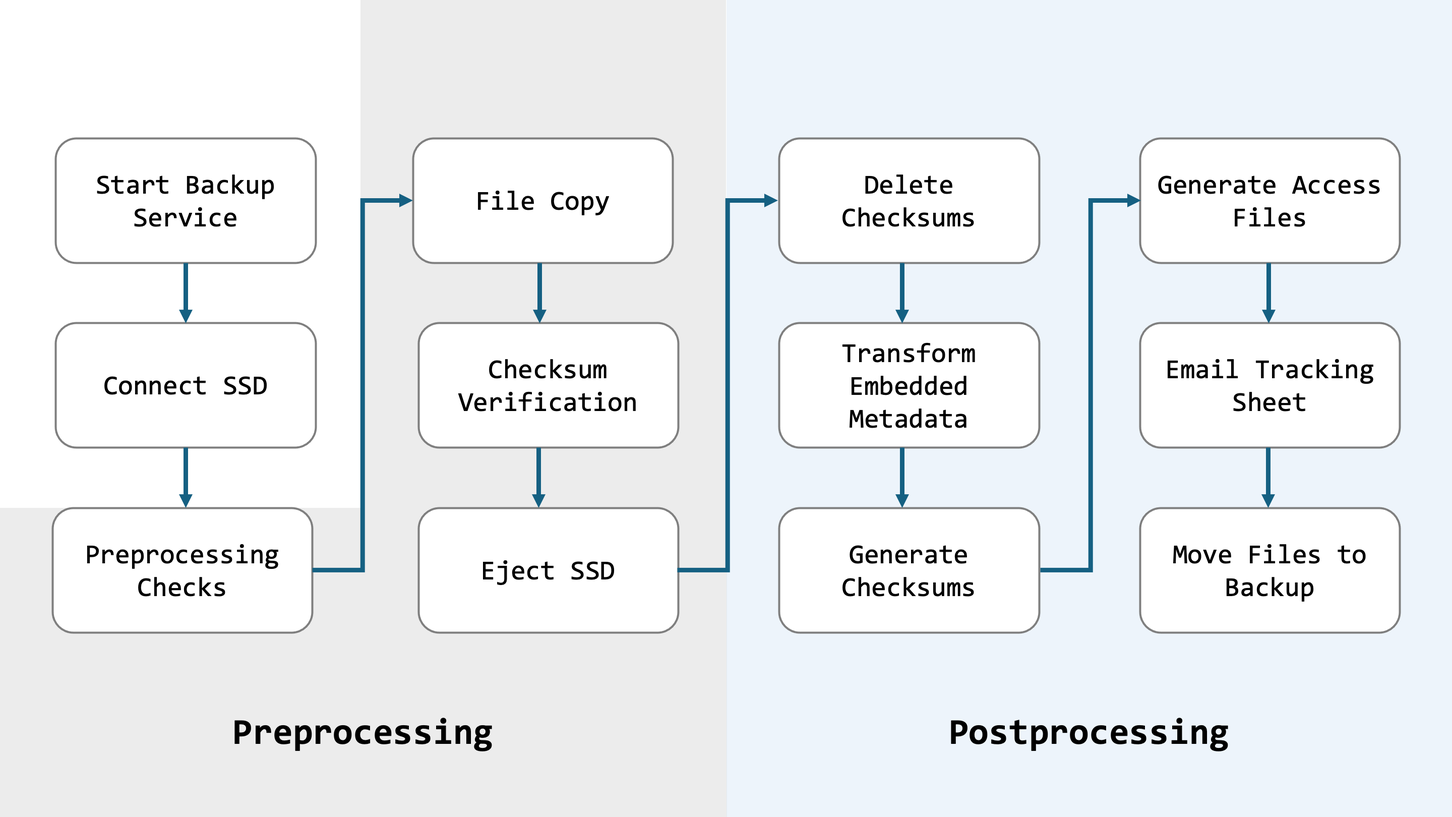
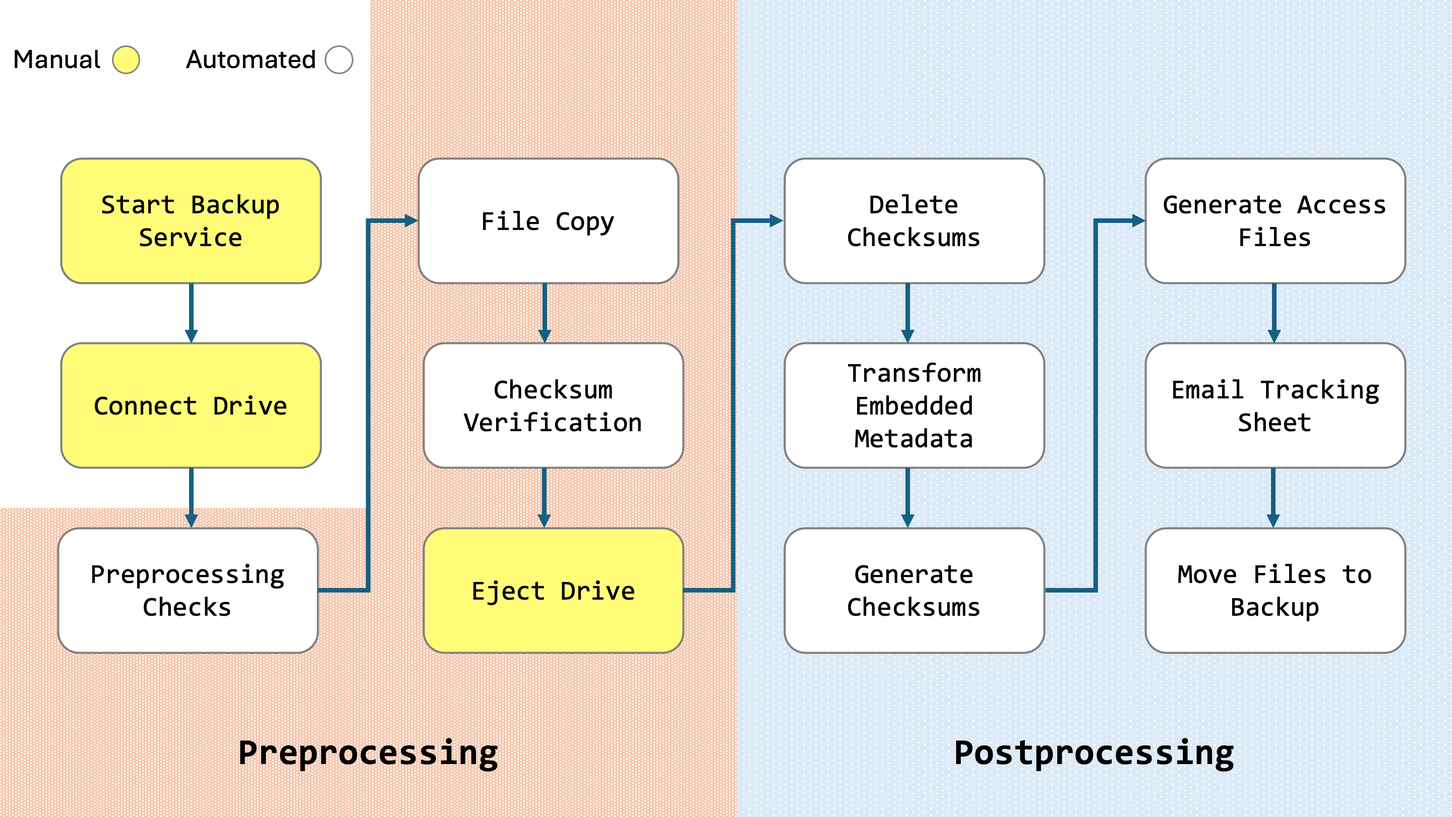
modified backup_service workflow diagram, minor text edits

diff --git a/_site/docs/transfer_processes/backup_service.html b/_site/docs/transfer_processes/backup_service.html
@@ -1,1 +1,1 @@
-<!DOCTYPE html> <html lang="en-US"> <head> <meta charset="UTF-8"> <meta http-equiv="X-UA-Compatible" content="IE=Edge"> <link rel="stylesheet" href="/Documentation/assets/css/just-the-docs-default.css"> <link rel="stylesheet" href="/Documentation/assets/css/just-the-docs-head-nav.css" id="jtd-head-nav-stylesheet"> <style id="jtd-nav-activation"> .site-nav > ul.nav-list:first-child > li > a, .site-nav > ul.nav-list:first-child > li > ul > li:not(:nth-child(4)) > a, .site-nav > ul.nav-list:first-child > li > ul > li > ul > li > a { background-image: none; } .site-nav > ul.nav-list:not(:first-child) a, .site-nav li.external a { background-image: none; } .site-nav > ul.nav-list:first-child > li:nth-child(2) > ul > li:nth-child(4) > a { font-weight: 600; text-decoration: none; }.site-nav > ul.nav-list:first-child > li:nth-child(2) > button svg, .site-nav > ul.nav-list:first-child > li:nth-child(2) > ul > li:nth-child(4) > button svg { transform: rotate(-90deg); }.site-nav > ul.nav-list:first-child > li.nav-list-item:nth-child(2) > ul.nav-list, .site-nav > ul.nav-list:first-child > li.nav-list-item:nth-child(2) > ul.nav-list > li.nav-list-item:nth-child(4) > ul.nav-list { display: block; } </style> <script src="/Documentation/assets/js/vendor/lunr.min.js"></script> <script src="/Documentation/assets/js/just-the-docs.js"></script> <meta name="viewport" content="width=device-width, initial-scale=1"> <!-- Begin Jekyll SEO tag v2.7.1 --> <title>File Backup Service | British Library Sound &amp; Vision</title> <meta name="generator" content="Jekyll v3.9.0" /> <meta property="og:title" content="File Backup Service" /> <meta property="og:locale" content="en_US" /> <meta name="description" content="This is the central documentation repository for audio preservation undertaken at the British Library." /> <meta property="og:description" content="This is the central documentation repository for audio preservation undertaken at the British Library." /> <link rel="canonical" href="http://localhost:4000/Documentation/docs/transfer_processes/backup_service.html" /> <meta property="og:url" content="http://localhost:4000/Documentation/docs/transfer_processes/backup_service.html" /> <meta property="og:site_name" content="British Library Sound &amp; Vision" /> <meta name="twitter:card" content="summary" /> <meta property="twitter:title" content="File Backup Service" /> <script type="application/ld+json"> {"url":"http://localhost:4000/Documentation/docs/transfer_processes/backup_service.html","@type":"WebPage","description":"This is the central documentation repository for audio preservation undertaken at the British Library.","headline":"File Backup Service","@context":"https://schema.org"}</script> <!-- End Jekyll SEO tag --> </head> <body> <a class="skip-to-main" href="#main-content">Skip to main content</a> <svg xmlns="http://www.w3.org/2000/svg" class="d-none"> <symbol id="svg-link" viewBox="0 0 24 24"> <title>Link</title> <svg xmlns="http://www.w3.org/2000/svg" width="24" height="24" viewBox="0 0 24 24" fill="none" stroke="currentColor" stroke-width="2" stroke-linecap="round" stroke-linejoin="round" class="feather feather-link"> <path d="M10 13a5 5 0 0 0 7.54.54l3-3a5 5 0 0 0-7.07-7.07l-1.72 1.71"></path><path d="M14 11a5 5 0 0 0-7.54-.54l-3 3a5 5 0 0 0 7.07 7.07l1.71-1.71"></path> </svg> </symbol> <symbol id="svg-menu" viewBox="0 0 24 24"> <title>Menu</title> <svg xmlns="http://www.w3.org/2000/svg" width="24" height="24" viewBox="0 0 24 24" fill="none" stroke="currentColor" stroke-width="2" stroke-linecap="round" stroke-linejoin="round" class="feather feather-menu"> <line x1="3" y1="12" x2="21" y2="12"></line><line x1="3" y1="6" x2="21" y2="6"></line><line x1="3" y1="18" x2="21" y2="18"></line> </svg> </symbol> <symbol id="svg-arrow-right" viewBox="0 0 24 24"> <title>Expand</title> <svg xmlns="http://www.w3.org/2000/svg" width="24" height="24" viewBox="0 0 24 24" fill="none" stroke="currentColor" stroke-width="2" stroke-linecap="round" stroke-linejoin="round" class="feather feather-chevron-right"> <polyline points="9 18 15 12 9 6"></polyline> </svg> </symbol> <!-- Feather. MIT License: https://github.com/feathericons/feather/blob/master/LICENSE --> <symbol id="svg-external-link" width="24" height="24" viewBox="0 0 24 24" fill="none" stroke="currentColor" stroke-width="2" stroke-linecap="round" stroke-linejoin="round" class="feather feather-external-link"> <title id="svg-external-link-title">(external link)</title> <path d="M18 13v6a2 2 0 0 1-2 2H5a2 2 0 0 1-2-2V8a2 2 0 0 1 2-2h6"></path><polyline points="15 3 21 3 21 9"></polyline><line x1="10" y1="14" x2="21" y2="3"></line> </symbol> <symbol id="svg-doc" viewBox="0 0 24 24"> <title>Document</title> <svg xmlns="http://www.w3.org/2000/svg" width="24" height="24" viewBox="0 0 24 24" fill="none" stroke="currentColor" stroke-width="2" stroke-linecap="round" stroke-linejoin="round" class="feather feather-file"> <path d="M13 2H6a2 2 0 0 0-2 2v16a2 2 0 0 0 2 2h12a2 2 0 0 0 2-2V9z"></path><polyline points="13 2 13 9 20 9"></polyline> </svg> </symbol> <symbol id="svg-search" viewBox="0 0 24 24"> <title>Search</title> <svg xmlns="http://www.w3.org/2000/svg" width="24" height="24" viewBox="0 0 24 24" fill="none" stroke="currentColor" stroke-width="2" stroke-linecap="round" stroke-linejoin="round" class="feather feather-search"> <circle cx="11" cy="11" r="8"></circle><line x1="21" y1="21" x2="16.65" y2="16.65"></line> </svg> </symbol> <!-- Bootstrap Icons. MIT License: https://github.com/twbs/icons/blob/main/LICENSE.md --> <symbol id="svg-copy" viewBox="0 0 16 16"> <title>Copy</title> <svg xmlns="http://www.w3.org/2000/svg" width="16" height="16" fill="currentColor" class="bi bi-clipboard" viewBox="0 0 16 16"> <path d="M4 1.5H3a2 2 0 0 0-2 2V14a2 2 0 0 0 2 2h10a2 2 0 0 0 2-2V3.5a2 2 0 0 0-2-2h-1v1h1a1 1 0 0 1 1 1V14a1 1 0 0 1-1 1H3a1 1 0 0 1-1-1V3.5a1 1 0 0 1 1-1h1v-1z"/> <path d="M9.5 1a.5.5 0 0 1 .5.5v1a.5.5 0 0 1-.5.5h-3a.5.5 0 0 1-.5-.5v-1a.5.5 0 0 1 .5-.5h3zm-3-1A1.5 1.5 0 0 0 5 1.5v1A1.5 1.5 0 0 0 6.5 4h3A1.5 1.5 0 0 0 11 2.5v-1A1.5 1.5 0 0 0 9.5 0h-3z"/> </svg> </symbol> <symbol id="svg-copied" viewBox="0 0 16 16"> <title>Copied</title> <svg xmlns="http://www.w3.org/2000/svg" width="16" height="16" fill="currentColor" class="bi bi-clipboard-check-fill" viewBox="0 0 16 16"> <path d="M6.5 0A1.5 1.5 0 0 0 5 1.5v1A1.5 1.5 0 0 0 6.5 4h3A1.5 1.5 0 0 0 11 2.5v-1A1.5 1.5 0 0 0 9.5 0h-3Zm3 1a.5.5 0 0 1 .5.5v1a.5.5 0 0 1-.5.5h-3a.5.5 0 0 1-.5-.5v-1a.5.5 0 0 1 .5-.5h3Z"/> <path d="M4 1.5H3a2 2 0 0 0-2 2V14a2 2 0 0 0 2 2h10a2 2 0 0 0 2-2V3.5a2 2 0 0 0-2-2h-1v1A2.5 2.5 0 0 1 9.5 5h-3A2.5 2.5 0 0 1 4 2.5v-1Zm6.854 7.354-3 3a.5.5 0 0 1-.708 0l-1.5-1.5a.5.5 0 0 1 .708-.708L7.5 10.793l2.646-2.647a.5.5 0 0 1 .708.708Z"/> </svg> </symbol> </svg> <div class="side-bar"> <div class="site-header" role="banner"> <a href="/Documentation/" class="site-title lh-tight"> British Library Sound & Vision </a> <button id="menu-button" class="site-button btn-reset" aria-label="Toggle menu" aria-pressed="false"> <svg viewBox="0 0 24 24" class="icon" aria-hidden="true"><use xlink:href="#svg-menu"></use></svg> </button> </div> <nav aria-label="Main" id="site-nav" class="site-nav"> <ul class="nav-list"><li class="nav-list-item"><a href="/Documentation/" class="nav-list-link">British Library Sound &amp; Vision</a></li><li class="nav-list-item"><button class="nav-list-expander btn-reset" aria-label="toggle items in Transfer Processes category" aria-pressed="false"> <svg viewBox="0 0 24 24" aria-hidden="true"><use xlink:href="#svg-arrow-right"></use></svg> </button><a href="/Documentation/docs/transfer_processes/" class="nav-list-link">Transfer Processes</a><ul class="nav-list"><li class="nav-list-item"><a href="/Documentation/docs/transfer_processes/audio_capture_settings.html" class="nav-list-link">Audio Capture Settings</a></li><li class="nav-list-item"><a href="/Documentation/docs/transfer_processes/raspberry_pi_audio_capture.html" class="nav-list-link">Raspberry Pi Audio Capture</a></li><li class="nav-list-item"><a href="/Documentation/docs/transfer_processes/analogue_disc.html" class="nav-list-link">Analogue Disc</a></li><li class="nav-list-item"><a href="/Documentation/docs/transfer_processes/backup_service.html" class="nav-list-link">File Backup Service</a></li></ul></li><li class="nav-list-item"><button class="nav-list-expander btn-reset" aria-label="toggle items in Naming Files category" aria-pressed="false"> <svg viewBox="0 0 24 24" aria-hidden="true"><use xlink:href="#svg-arrow-right"></use></svg> </button><a href="/Documentation/docs/naming_files/" class="nav-list-link">Naming Files</a><ul class="nav-list"><li class="nav-list-item"><a href="/Documentation/docs/naming_files/how_to_name_a_file.html" class="nav-list-link">How to Name a File</a></li><li class="nav-list-item"><a href="/Documentation/docs/naming_files/quarter_track_tape_filenames.html" class="nav-list-link">4-Track and Quarter-Track Filenames</a></li></ul></li><li class="nav-list-item"><button class="nav-list-expander btn-reset" aria-label="toggle items in AV SIP Generator category" aria-pressed="false"> <svg viewBox="0 0 24 24" aria-hidden="true"><use xlink:href="#svg-arrow-right"></use></svg> </button><a href="/Documentation/docs/AVSIPGEN/" class="nav-list-link">AV SIP Generator</a><ul class="nav-list"><li class="nav-list-item"><a href="/Documentation/docs/AVSIPGEN/changelog.html" class="nav-list-link">Changelog</a></li><li class="nav-list-item"><a href="/Documentation/docs/AVSIPGEN/how_to_build_a_SIP.html" class="nav-list-link">How to Build a SIP</a></li><li class="nav-list-item"><a href="/Documentation/docs/AVSIPGEN/auto_generate_functions.html" class="nav-list-link">Auto-Generate Functions</a></li><li class="nav-list-item"><a href="/Documentation/docs/AVSIPGEN/excel_batch_upload.html" class="nav-list-link">Excel Batch Upload</a></li><li class="nav-list-item"><a href="/Documentation/docs/AVSIPGEN/post-transfer_tasks.html" class="nav-list-link">Post-Transfer Tasks</a></li><li class="nav-list-item"><a href="/Documentation/AVSIPGEN/maintenance_tasks/" class="nav-list-link">Maintenance Tasks</a></li><li class="nav-list-item"><a href="/Documentation/AVSIPGEN/downloading_files" class="nav-list-link">Downloading Files</a></li></ul></li><li class="nav-list-item"><button class="nav-list-expander btn-reset" aria-label="toggle items in Quality Control category" aria-pressed="false"> <svg viewBox="0 0 24 24" aria-hidden="true"><use xlink:href="#svg-arrow-right"></use></svg> </button><a href="/Documentation/docs/quality_control/" class="nav-list-link">Quality Control</a><ul class="nav-list"><li class="nav-list-item"><a href="/Documentation/quality_control/audio_quality_control/" class="nav-list-link">Audio Quality Control</a></li><li class="nav-list-item"><a href="/Documentation/quality_control/quality_control_spectrum_analysis/" class="nav-list-link">Spectrum Analysis</a></li><li class="nav-list-item"><a href="/Documentation/quality_control/quality_control_status/" class="nav-list-link">Quality Control Status</a></li></ul></li><li class="nav-list-item"><button class="nav-list-expander btn-reset" aria-label="toggle items in Metadata category" aria-pressed="false"> <svg viewBox="0 0 24 24" aria-hidden="true"><use xlink:href="#svg-arrow-right"></use></svg> </button><a href="/Documentation/docs/metadata/" class="nav-list-link">Metadata</a><ul class="nav-list"><li class="nav-list-item"><a href="/Documentation/metadata/sound_quality_notes" class="nav-list-link">Sound Quality Notes</a></li></ul></li><li class="nav-list-item"><a href="/Documentation/about/" class="nav-list-link">About</a></li></ul> </nav> <footer class="site-footer"> This site uses <a href="https://github.com/just-the-docs/just-the-docs">Just the Docs</a>, a documentation theme for Jekyll. </footer> </div> <div class="main" id="top"> <div id="main-header" class="main-header"> <div class="search" role="search"> <div class="search-input-wrap"> <input type="text" id="search-input" class="search-input" tabindex="0" placeholder="Search British Library Sound & Vision" aria-label="Search British Library Sound & Vision" autocomplete="off"> <label for="search-input" class="search-label"><svg viewBox="0 0 24 24" class="search-icon"><use xlink:href="#svg-search"></use></svg></label> </div> <div id="search-results" class="search-results"></div> </div> <nav aria-label="Auxiliary" class="aux-nav"> <ul class="aux-nav-list"> <li class="aux-nav-list-item"> <a href="https://sounds.bl.uk/" class="site-button" > Listen to our Collections </a> </li> </ul> </nav> </div> <div class="main-content-wrap"> <nav aria-label="Breadcrumb" class="breadcrumb-nav"> <ol class="breadcrumb-nav-list"> <li class="breadcrumb-nav-list-item"><a href="/Documentation/docs/transfer_processes/">Transfer Processes</a></li> <li class="breadcrumb-nav-list-item"><span>File Backup Service</span></li> </ol> </nav> <div id="main-content" class="main-content"> <main> <h1 id="file-backup-service"> <a href="#file-backup-service" class="anchor-heading" aria-labelledby="file-backup-service"><svg viewBox="0 0 16 16" aria-hidden="true"><use xlink:href="#svg-link"></use></svg></a> File Backup Service </h1> <p>This page outlines the workflow and requirements for backing up audio preservation files and metadata to the department’s offline storage solution.</p> <p>The backup service is written in Python and the code is accessible <a href="/link">here</a>.</p> <ol> <li><a href="1-workflow">Workflow</a></li> <li><a href="#2-requirements-and-data-formatting">Requirements and Data Formatting</a></li> <li><a href="#3-preprocessing-checks">Preprocessing Checks</a></li> <li><a href="#4-copying-files-from-local-drive">Copying Files from Local Drive</a></li> <li><a href="#5-postprocessing-and-backup-storage">Postprocessing and Backup Storage</a></li> </ol> <h2 id="1-workflow"> <a href="#1-workflow" class="anchor-heading" aria-labelledby="1-workflow"><svg viewBox="0 0 16 16" aria-hidden="true"><use xlink:href="#svg-link"></use></svg></a> 1. Workflow </h2> <!-- [image] --> <p><img src="/Documentation/assets/images/system_settings/9_backupservice_workflow.png" /></p> <h2 id="2-requirements-and-data-formatting"> <a href="#2-requirements-and-data-formatting" class="anchor-heading" aria-labelledby="2-requirements-and-data-formatting"><svg viewBox="0 0 16 16" aria-hidden="true"><use xlink:href="#svg-link"></use></svg></a> 2. Requirements and Data Formatting </h2> <p>The following data is required to start the backup service.</p> <ul> <li>Audio files</li> <li>MD5 Checksum files</li> <li>Tracking spreasheet</li> <li>Excel Batch SIP spreadsheet</li> </ul> <p>All files need to be saved in a source directory named with the engineer’s name (First Surname) and organised in flat structure with no subdirectories.</p> <div class="table-wrapper"><table> <thead> <tr> <th style="text-align: left">Directory</th> <th style="text-align: left">Files</th> </tr> </thead> <tbody> <tr> <td style="text-align: left">/Engineer Name</td> <td style="text-align: left"> </td> </tr> <tr> <td style="text-align: left"> </td> <td style="text-align: left">*.wav</td> </tr> <tr> <td style="text-align: left"> </td> <td style="text-align: left">*.md5</td> </tr> <tr> <td style="text-align: left"> </td> <td style="text-align: left">EnigneerName_Date_BatchNo_TrackingSpreadsheet.xlsx</td> </tr> <tr> <td style="text-align: left"> </td> <td style="text-align: left">EnigneerName_Date_BatchNo_ExcelBatchUpload.xlsx</td> </tr> </tbody> </table></div> <p>The Tracking and Batch SIP spreadsheets are required and all data listed within must match against the audio files in the directory.</p> <p>The spreadsheets should be named according to the filename template:</p> <div class="table-wrapper"><table> <thead> <tr> <th style="text-align: left">Template</th> <th style="text-align: left">Example</th> </tr> </thead> <tbody> <tr> <td style="text-align: left">EnigneerName_Date_BatchNo_TrackingSpreadsheet</td> <td style="text-align: left">CarloKrahmer_240307_1_TrackingSpreadheet</td> </tr> <tr> <td style="text-align: left">EnigneerName_Date_BatchNo_ExcelBatchUpload</td> <td style="text-align: left">CarloKrahmer_240307_1_ExcelBatchUpload</td> </tr> </tbody> </table></div> <p>The batch number represents the number of total backups made by an engineer and should increment with each new backup. It does not reset with new collections or date changes.</p> <div class="table-wrapper"><table> <thead> <tr> <th style="text-align: left">Backup Number</th> <th style="text-align: left">Batch Number</th> <th style="text-align: left">Tracking Sheet Filename</th> <th>Batch SIP filename</th> </tr> </thead> <tbody> <tr> <td style="text-align: left">1</td> <td style="text-align: left">1</td> <td style="text-align: left">CarloKrahmer_240307_1_TrackingSpreadsheet</td> <td>CarloKrahmer_240307_1_ExcelBatchUpload</td> </tr> <tr> <td style="text-align: left">2</td> <td style="text-align: left">2</td> <td style="text-align: left">CarloKrahmer_240410_2_TrackingSpreadsheet</td> <td>CarloKrahmer_240410_2_ExcelBatchUpload</td> </tr> <tr> <td style="text-align: left">3</td> <td style="text-align: left">3</td> <td style="text-align: left">CarloKrahmer_240503_3_TrackingSpreadsheet</td> <td>CarloKrahmer_240503_3_ExcelBatchUpload</td> </tr> </tbody> </table></div> <p>As a requirement to complete the backup, the Tracking and Excel Batch SIP spreadsheet batch numbers and the dates should always match.</p> <h2 id="3-preprocessing-checks"> <a href="#3-preprocessing-checks" class="anchor-heading" aria-labelledby="3-preprocessing-checks"><svg viewBox="0 0 16 16" aria-hidden="true"><use xlink:href="#svg-link"></use></svg></a> 3. Preprocessing Checks </h2> <p>When the service begins, the backup requirements outlined in <a href="#2-requirements-and-data-formatting">2. Requirements and Data Formatting</a> will be checked and if any of the conditions are not met, the service will reject the backup and exit.</p> <p>Therefore, ensure all conditions are met before attempting a backup.</p> <h2 id="4-copying-files-from-local-drive"> <a href="#4-copying-files-from-local-drive" class="anchor-heading" aria-labelledby="4-copying-files-from-local-drive"><svg viewBox="0 0 16 16" aria-hidden="true"><use xlink:href="#svg-link"></use></svg></a> 4. Copying Files from Local Drive </h2> <p>To copy files from your drive to the backup storage</p> <ol> <li>Double click on the BackupService executable on the desktop</li> <li>Read the welcome message and ensure all checks are made</li> <li>Connect your drive as requested and hit Enter to continue</li> <li>Select the source directory and follow the onscreen instructions</li> <li>The data on the attached drive will copy over to the <strong>_staging_area</strong> directory</li> <li>Once the copy has completed and the file checksums verified, you will be asked to eject the drive</li> <li>Eject the drive as requested and hit Enter</li> </ol> <h2 id="5-postprocessing-and-backup-storage"> <a href="#5-postprocessing-and-backup-storage" class="anchor-heading" aria-labelledby="5-postprocessing-and-backup-storage"><svg viewBox="0 0 16 16" aria-hidden="true"><use xlink:href="#svg-link"></use></svg></a> 5. Postprocessing and Backup Storage </h2> <p>Once the intial copy to the staging area is complete and the drive ejected, a series of postprocesses will begin. Engineers do not need to be present for this and can leave the service to complete without supervision.</p> <ol> <li>Existing checksums will be deleted</li> <li>Embedded BWF metadata will be rewritten to the RIFF INFO chunk</li> <li>New checksum files will be generated</li> <li>Access files will be generated and saved to the <strong>_MSO_Audio</strong> directory</li> <li>The Tracking spreadsheet will be emailed to the Workflow Support Officer</li> <li>The files will be then be moved from <strong>_staging_area</strong> to <strong>_backup_storage</strong>, and saved to the Engineer’s named directory and a batch-number-date named directory created</li> </ol> </main> <hr> <footer> <p class="text-small text-grey-dk-100 mb-0"><p xmlns:cc="http://creativecommons.org/ns#" ><a href="http://creativecommons.org/licenses/by-nc/4.0/?ref=chooser-v1" target="_blank" rel="license noopener noreferrer" style="display:inline-block;">CC BY-NC 4.0<img style="height:22px!important;margin-left:3px;vertical-align:text-bottom;" src="https://mirrors.creativecommons.org/presskit/icons/cc.svg?ref=chooser-v1"><img style="height:22px!important;margin-left:3px;vertical-align:text-bottom;" src="https://mirrors.creativecommons.org/presskit/icons/by.svg?ref=chooser-v1"><img style="height:22px!important;margin-left:3px;vertical-align:text-bottom;" src="https://mirrors.creativecommons.org/presskit/icons/nc.svg?ref=chooser-v1"></a></p></p> <div class="d-flex mt-2"> <p class="text-small text-grey-dk-000 mb-0 mr-2"> Page last modified: <span class="d-inline-block">Mar 7 2024</span>. </p> </div> </footer> </div> </div> <div class="search-overlay"></div> </div> </body> </html>
+<!DOCTYPE html> <html lang="en-US"> <head> <meta charset="UTF-8"> <meta http-equiv="X-UA-Compatible" content="IE=Edge"> <link rel="stylesheet" href="/Documentation/assets/css/just-the-docs-default.css"> <link rel="stylesheet" href="/Documentation/assets/css/just-the-docs-head-nav.css" id="jtd-head-nav-stylesheet"> <style id="jtd-nav-activation"> .site-nav > ul.nav-list:first-child > li > a, .site-nav > ul.nav-list:first-child > li > ul > li:not(:nth-child(4)) > a, .site-nav > ul.nav-list:first-child > li > ul > li > ul > li > a { background-image: none; } .site-nav > ul.nav-list:not(:first-child) a, .site-nav li.external a { background-image: none; } .site-nav > ul.nav-list:first-child > li:nth-child(2) > ul > li:nth-child(4) > a { font-weight: 600; text-decoration: none; }.site-nav > ul.nav-list:first-child > li:nth-child(2) > button svg, .site-nav > ul.nav-list:first-child > li:nth-child(2) > ul > li:nth-child(4) > button svg { transform: rotate(-90deg); }.site-nav > ul.nav-list:first-child > li.nav-list-item:nth-child(2) > ul.nav-list, .site-nav > ul.nav-list:first-child > li.nav-list-item:nth-child(2) > ul.nav-list > li.nav-list-item:nth-child(4) > ul.nav-list { display: block; } </style> <script src="/Documentation/assets/js/vendor/lunr.min.js"></script> <script src="/Documentation/assets/js/just-the-docs.js"></script> <meta name="viewport" content="width=device-width, initial-scale=1"> <!-- Begin Jekyll SEO tag v2.7.1 --> <title>File Backup Service | British Library Sound &amp; Vision</title> <meta name="generator" content="Jekyll v3.9.0" /> <meta property="og:title" content="File Backup Service" /> <meta property="og:locale" content="en_US" /> <meta name="description" content="This is the central documentation repository for audio preservation undertaken at the British Library." /> <meta property="og:description" content="This is the central documentation repository for audio preservation undertaken at the British Library." /> <link rel="canonical" href="http://localhost:4000/Documentation/docs/transfer_processes/backup_service.html" /> <meta property="og:url" content="http://localhost:4000/Documentation/docs/transfer_processes/backup_service.html" /> <meta property="og:site_name" content="British Library Sound &amp; Vision" /> <meta name="twitter:card" content="summary" /> <meta property="twitter:title" content="File Backup Service" /> <script type="application/ld+json"> {"url":"http://localhost:4000/Documentation/docs/transfer_processes/backup_service.html","@type":"WebPage","description":"This is the central documentation repository for audio preservation undertaken at the British Library.","headline":"File Backup Service","@context":"https://schema.org"}</script> <!-- End Jekyll SEO tag --> </head> <body> <a class="skip-to-main" href="#main-content">Skip to main content</a> <svg xmlns="http://www.w3.org/2000/svg" class="d-none"> <symbol id="svg-link" viewBox="0 0 24 24"> <title>Link</title> <svg xmlns="http://www.w3.org/2000/svg" width="24" height="24" viewBox="0 0 24 24" fill="none" stroke="currentColor" stroke-width="2" stroke-linecap="round" stroke-linejoin="round" class="feather feather-link"> <path d="M10 13a5 5 0 0 0 7.54.54l3-3a5 5 0 0 0-7.07-7.07l-1.72 1.71"></path><path d="M14 11a5 5 0 0 0-7.54-.54l-3 3a5 5 0 0 0 7.07 7.07l1.71-1.71"></path> </svg> </symbol> <symbol id="svg-menu" viewBox="0 0 24 24"> <title>Menu</title> <svg xmlns="http://www.w3.org/2000/svg" width="24" height="24" viewBox="0 0 24 24" fill="none" stroke="currentColor" stroke-width="2" stroke-linecap="round" stroke-linejoin="round" class="feather feather-menu"> <line x1="3" y1="12" x2="21" y2="12"></line><line x1="3" y1="6" x2="21" y2="6"></line><line x1="3" y1="18" x2="21" y2="18"></line> </svg> </symbol> <symbol id="svg-arrow-right" viewBox="0 0 24 24"> <title>Expand</title> <svg xmlns="http://www.w3.org/2000/svg" width="24" height="24" viewBox="0 0 24 24" fill="none" stroke="currentColor" stroke-width="2" stroke-linecap="round" stroke-linejoin="round" class="feather feather-chevron-right"> <polyline points="9 18 15 12 9 6"></polyline> </svg> </symbol> <!-- Feather. MIT License: https://github.com/feathericons/feather/blob/master/LICENSE --> <symbol id="svg-external-link" width="24" height="24" viewBox="0 0 24 24" fill="none" stroke="currentColor" stroke-width="2" stroke-linecap="round" stroke-linejoin="round" class="feather feather-external-link"> <title id="svg-external-link-title">(external link)</title> <path d="M18 13v6a2 2 0 0 1-2 2H5a2 2 0 0 1-2-2V8a2 2 0 0 1 2-2h6"></path><polyline points="15 3 21 3 21 9"></polyline><line x1="10" y1="14" x2="21" y2="3"></line> </symbol> <symbol id="svg-doc" viewBox="0 0 24 24"> <title>Document</title> <svg xmlns="http://www.w3.org/2000/svg" width="24" height="24" viewBox="0 0 24 24" fill="none" stroke="currentColor" stroke-width="2" stroke-linecap="round" stroke-linejoin="round" class="feather feather-file"> <path d="M13 2H6a2 2 0 0 0-2 2v16a2 2 0 0 0 2 2h12a2 2 0 0 0 2-2V9z"></path><polyline points="13 2 13 9 20 9"></polyline> </svg> </symbol> <symbol id="svg-search" viewBox="0 0 24 24"> <title>Search</title> <svg xmlns="http://www.w3.org/2000/svg" width="24" height="24" viewBox="0 0 24 24" fill="none" stroke="currentColor" stroke-width="2" stroke-linecap="round" stroke-linejoin="round" class="feather feather-search"> <circle cx="11" cy="11" r="8"></circle><line x1="21" y1="21" x2="16.65" y2="16.65"></line> </svg> </symbol> <!-- Bootstrap Icons. MIT License: https://github.com/twbs/icons/blob/main/LICENSE.md --> <symbol id="svg-copy" viewBox="0 0 16 16"> <title>Copy</title> <svg xmlns="http://www.w3.org/2000/svg" width="16" height="16" fill="currentColor" class="bi bi-clipboard" viewBox="0 0 16 16"> <path d="M4 1.5H3a2 2 0 0 0-2 2V14a2 2 0 0 0 2 2h10a2 2 0 0 0 2-2V3.5a2 2 0 0 0-2-2h-1v1h1a1 1 0 0 1 1 1V14a1 1 0 0 1-1 1H3a1 1 0 0 1-1-1V3.5a1 1 0 0 1 1-1h1v-1z"/> <path d="M9.5 1a.5.5 0 0 1 .5.5v1a.5.5 0 0 1-.5.5h-3a.5.5 0 0 1-.5-.5v-1a.5.5 0 0 1 .5-.5h3zm-3-1A1.5 1.5 0 0 0 5 1.5v1A1.5 1.5 0 0 0 6.5 4h3A1.5 1.5 0 0 0 11 2.5v-1A1.5 1.5 0 0 0 9.5 0h-3z"/> </svg> </symbol> <symbol id="svg-copied" viewBox="0 0 16 16"> <title>Copied</title> <svg xmlns="http://www.w3.org/2000/svg" width="16" height="16" fill="currentColor" class="bi bi-clipboard-check-fill" viewBox="0 0 16 16"> <path d="M6.5 0A1.5 1.5 0 0 0 5 1.5v1A1.5 1.5 0 0 0 6.5 4h3A1.5 1.5 0 0 0 11 2.5v-1A1.5 1.5 0 0 0 9.5 0h-3Zm3 1a.5.5 0 0 1 .5.5v1a.5.5 0 0 1-.5.5h-3a.5.5 0 0 1-.5-.5v-1a.5.5 0 0 1 .5-.5h3Z"/> <path d="M4 1.5H3a2 2 0 0 0-2 2V14a2 2 0 0 0 2 2h10a2 2 0 0 0 2-2V3.5a2 2 0 0 0-2-2h-1v1A2.5 2.5 0 0 1 9.5 5h-3A2.5 2.5 0 0 1 4 2.5v-1Zm6.854 7.354-3 3a.5.5 0 0 1-.708 0l-1.5-1.5a.5.5 0 0 1 .708-.708L7.5 10.793l2.646-2.647a.5.5 0 0 1 .708.708Z"/> </svg> </symbol> </svg> <div class="side-bar"> <div class="site-header" role="banner"> <a href="/Documentation/" class="site-title lh-tight"> British Library Sound & Vision </a> <button id="menu-button" class="site-button btn-reset" aria-label="Toggle menu" aria-pressed="false"> <svg viewBox="0 0 24 24" class="icon" aria-hidden="true"><use xlink:href="#svg-menu"></use></svg> </button> </div> <nav aria-label="Main" id="site-nav" class="site-nav"> <ul class="nav-list"><li class="nav-list-item"><a href="/Documentation/" class="nav-list-link">British Library Sound &amp; Vision</a></li><li class="nav-list-item"><button class="nav-list-expander btn-reset" aria-label="toggle items in Transfer Processes category" aria-pressed="false"> <svg viewBox="0 0 24 24" aria-hidden="true"><use xlink:href="#svg-arrow-right"></use></svg> </button><a href="/Documentation/docs/transfer_processes/" class="nav-list-link">Transfer Processes</a><ul class="nav-list"><li class="nav-list-item"><a href="/Documentation/docs/transfer_processes/audio_capture_settings.html" class="nav-list-link">Audio Capture Settings</a></li><li class="nav-list-item"><a href="/Documentation/docs/transfer_processes/raspberry_pi_audio_capture.html" class="nav-list-link">Raspberry Pi Audio Capture</a></li><li class="nav-list-item"><a href="/Documentation/docs/transfer_processes/analogue_disc.html" class="nav-list-link">Analogue Disc</a></li><li class="nav-list-item"><a href="/Documentation/docs/transfer_processes/backup_service.html" class="nav-list-link">File Backup Service</a></li></ul></li><li class="nav-list-item"><button class="nav-list-expander btn-reset" aria-label="toggle items in Naming Files category" aria-pressed="false"> <svg viewBox="0 0 24 24" aria-hidden="true"><use xlink:href="#svg-arrow-right"></use></svg> </button><a href="/Documentation/docs/naming_files/" class="nav-list-link">Naming Files</a><ul class="nav-list"><li class="nav-list-item"><a href="/Documentation/docs/naming_files/how_to_name_a_file.html" class="nav-list-link">How to Name a File</a></li><li class="nav-list-item"><a href="/Documentation/docs/naming_files/quarter_track_tape_filenames.html" class="nav-list-link">4-Track and Quarter-Track Filenames</a></li></ul></li><li class="nav-list-item"><button class="nav-list-expander btn-reset" aria-label="toggle items in AV SIP Generator category" aria-pressed="false"> <svg viewBox="0 0 24 24" aria-hidden="true"><use xlink:href="#svg-arrow-right"></use></svg> </button><a href="/Documentation/docs/AVSIPGEN/" class="nav-list-link">AV SIP Generator</a><ul class="nav-list"><li class="nav-list-item"><a href="/Documentation/docs/AVSIPGEN/changelog.html" class="nav-list-link">Changelog</a></li><li class="nav-list-item"><a href="/Documentation/docs/AVSIPGEN/how_to_build_a_SIP.html" class="nav-list-link">How to Build a SIP</a></li><li class="nav-list-item"><a href="/Documentation/docs/AVSIPGEN/auto_generate_functions.html" class="nav-list-link">Auto-Generate Functions</a></li><li class="nav-list-item"><a href="/Documentation/docs/AVSIPGEN/excel_batch_upload.html" class="nav-list-link">Excel Batch Upload</a></li><li class="nav-list-item"><a href="/Documentation/docs/AVSIPGEN/post-transfer_tasks.html" class="nav-list-link">Post-Transfer Tasks</a></li><li class="nav-list-item"><a href="/Documentation/AVSIPGEN/maintenance_tasks/" class="nav-list-link">Maintenance Tasks</a></li><li class="nav-list-item"><a href="/Documentation/AVSIPGEN/downloading_files" class="nav-list-link">Downloading Files</a></li></ul></li><li class="nav-list-item"><button class="nav-list-expander btn-reset" aria-label="toggle items in Quality Control category" aria-pressed="false"> <svg viewBox="0 0 24 24" aria-hidden="true"><use xlink:href="#svg-arrow-right"></use></svg> </button><a href="/Documentation/docs/quality_control/" class="nav-list-link">Quality Control</a><ul class="nav-list"><li class="nav-list-item"><a href="/Documentation/quality_control/audio_quality_control/" class="nav-list-link">Audio Quality Control</a></li><li class="nav-list-item"><a href="/Documentation/quality_control/quality_control_spectrum_analysis/" class="nav-list-link">Spectrum Analysis</a></li><li class="nav-list-item"><a href="/Documentation/quality_control/quality_control_status/" class="nav-list-link">Quality Control Status</a></li></ul></li><li class="nav-list-item"><button class="nav-list-expander btn-reset" aria-label="toggle items in Metadata category" aria-pressed="false"> <svg viewBox="0 0 24 24" aria-hidden="true"><use xlink:href="#svg-arrow-right"></use></svg> </button><a href="/Documentation/docs/metadata/" class="nav-list-link">Metadata</a><ul class="nav-list"><li class="nav-list-item"><a href="/Documentation/metadata/sound_quality_notes" class="nav-list-link">Sound Quality Notes</a></li></ul></li><li class="nav-list-item"><a href="/Documentation/about/" class="nav-list-link">About</a></li></ul> </nav> <footer class="site-footer"> This site uses <a href="https://github.com/just-the-docs/just-the-docs">Just the Docs</a>, a documentation theme for Jekyll. </footer> </div> <div class="main" id="top"> <div id="main-header" class="main-header"> <div class="search" role="search"> <div class="search-input-wrap"> <input type="text" id="search-input" class="search-input" tabindex="0" placeholder="Search British Library Sound & Vision" aria-label="Search British Library Sound & Vision" autocomplete="off"> <label for="search-input" class="search-label"><svg viewBox="0 0 24 24" class="search-icon"><use xlink:href="#svg-search"></use></svg></label> </div> <div id="search-results" class="search-results"></div> </div> <nav aria-label="Auxiliary" class="aux-nav"> <ul class="aux-nav-list"> <li class="aux-nav-list-item"> <a href="https://sounds.bl.uk/" class="site-button" > Listen to our Collections </a> </li> </ul> </nav> </div> <div class="main-content-wrap"> <nav aria-label="Breadcrumb" class="breadcrumb-nav"> <ol class="breadcrumb-nav-list"> <li class="breadcrumb-nav-list-item"><a href="/Documentation/docs/transfer_processes/">Transfer Processes</a></li> <li class="breadcrumb-nav-list-item"><span>File Backup Service</span></li> </ol> </nav> <div id="main-content" class="main-content"> <main> <h1 id="file-backup-service"> <a href="#file-backup-service" class="anchor-heading" aria-labelledby="file-backup-service"><svg viewBox="0 0 16 16" aria-hidden="true"><use xlink:href="#svg-link"></use></svg></a> File Backup Service </h1> <p>This page outlines the workflow and requirements for backing up audio preservation files and metadata to the department’s offline storage solution.</p> <p>The backup service is written in Python and the code is accessible <a href="/link">here</a>.</p> <ol> <li><a href="1-workflow">Workflow</a></li> <li><a href="#2-requirements-and-data-formatting">Requirements and Data Formatting</a></li> <li><a href="#3-preprocessing-checks">Preprocessing Checks</a></li> <li><a href="#4-copying-files-from-local-drive">Copying Files from Local Drive</a></li> <li><a href="#5-postprocessing-and-backup-storage">Postprocessing and Backup Storage</a></li> </ol> <h2 id="1-workflow"> <a href="#1-workflow" class="anchor-heading" aria-labelledby="1-workflow"><svg viewBox="0 0 16 16" aria-hidden="true"><use xlink:href="#svg-link"></use></svg></a> 1. Workflow </h2> <p>Outline of the File Backup Service operations.</p> <!-- [image] --> <p><img src="/Documentation/assets/images/system_settings/9_backupservice_workflow.png" /></p> <h2 id="2-requirements-and-data-formatting"> <a href="#2-requirements-and-data-formatting" class="anchor-heading" aria-labelledby="2-requirements-and-data-formatting"><svg viewBox="0 0 16 16" aria-hidden="true"><use xlink:href="#svg-link"></use></svg></a> 2. Requirements and Data Formatting </h2> <p>The following data is required to run the backup service.</p> <ul> <li>Audio files</li> <li>MD5 Checksum files</li> <li>Tracking spreasheet</li> <li>Excel Batch SIP spreadsheet</li> </ul> <p>All files need to be saved in a source directory named with the engineer’s name (First Surname) and organised in flat structure with no subdirectories.</p> <div class="table-wrapper"><table> <thead> <tr> <th style="text-align: left">Directory</th> <th style="text-align: left">Files</th> </tr> </thead> <tbody> <tr> <td style="text-align: left">/Engineer Name</td> <td style="text-align: left"> </td> </tr> <tr> <td style="text-align: left"> </td> <td style="text-align: left">*.wav</td> </tr> <tr> <td style="text-align: left"> </td> <td style="text-align: left">*.md5</td> </tr> <tr> <td style="text-align: left"> </td> <td style="text-align: left">EnigneerName_Date_BatchNo_TrackingSpreadsheet.xlsx</td> </tr> <tr> <td style="text-align: left"> </td> <td style="text-align: left">EnigneerName__Date_BatchNo_ExcelBatchUpload.xlsx</td> </tr> </tbody> </table></div> <p>The Tracking and Batch SIP spreadsheets are required and all data listed within must match against the audio files in the directory.</p> <p>The spreadsheets should be named according to the filename template:</p> <div class="table-wrapper"><table> <thead> <tr> <th style="text-align: left">Template</th> <th style="text-align: left">Example</th> </tr> </thead> <tbody> <tr> <td style="text-align: left">EnigneerName_Date_BatchNo_TrackingSpreadsheet</td> <td style="text-align: left">CarloKrahmer_240307_1_TrackingSpreadheet</td> </tr> <tr> <td style="text-align: left">EnigneerName_Date_BatchNo_ExcelBatchUpload</td> <td style="text-align: left">CarloKrahmer_240307_1_ExcelBatchUpload</td> </tr> </tbody> </table></div> <p>The batch number represents the number of total backups made by an engineer and should increment with each new backup. It does not reset with new collections or date changes.</p> <div class="table-wrapper"><table> <thead> <tr> <th style="text-align: left">Backup Number</th> <th style="text-align: left">Batch Number</th> <th style="text-align: left">Tracking Sheet Filename</th> <th>Batch SIP filename</th> </tr> </thead> <tbody> <tr> <td style="text-align: left">1</td> <td style="text-align: left">1</td> <td style="text-align: left">CarloKrahmer_240307_1_TrackingSpreadsheet</td> <td>CarloKrahmer_240307_1_ExcelBatchUpload</td> </tr> <tr> <td style="text-align: left">2</td> <td style="text-align: left">2</td> <td style="text-align: left">CarloKrahmer_240410_2_TrackingSpreadsheet</td> <td>CarloKrahmer_240410_2_ExcelBatchUpload</td> </tr> <tr> <td style="text-align: left">3</td> <td style="text-align: left">3</td> <td style="text-align: left">CarloKrahmer_240503_3_TrackingSpreadsheet</td> <td>CarloKrahmer_240503_3_ExcelBatchUpload</td> </tr> </tbody> </table></div> <p>As a requirement to complete the backup, the Tracking and Excel Batch SIP spreadsheet batch numbers and the dates should always match.</p> <h2 id="3-preprocessing-checks"> <a href="#3-preprocessing-checks" class="anchor-heading" aria-labelledby="3-preprocessing-checks"><svg viewBox="0 0 16 16" aria-hidden="true"><use xlink:href="#svg-link"></use></svg></a> 3. Preprocessing Checks </h2> <p>When the service begins, the backup requirements outlined in <a href="#2-requirements-and-data-formatting">2. Requirements and Data Formatting</a> will be checked and if any of the conditions are not met, the service will reject the backup and exit.</p> <p>Therefore, ensure all conditions are met before attempting a backup.</p> <h2 id="4-copying-files-from-local-drive"> <a href="#4-copying-files-from-local-drive" class="anchor-heading" aria-labelledby="4-copying-files-from-local-drive"><svg viewBox="0 0 16 16" aria-hidden="true"><use xlink:href="#svg-link"></use></svg></a> 4. Copying Files from Local Drive </h2> <p>To copy files from your drive to the backup storage</p> <ol> <li>Double click on the BackupService executable on the desktop</li> <li>Read the welcome message and ensure all checks are made</li> <li>Connect your drive as requested and hit Enter to continue</li> <li>Select the source directory and follow the onscreen instructions</li> <li>The data on the attached drive will copy over to the <strong>_staging_area</strong> directory</li> <li>Once the copy has completed and the file checksums verified, you will be asked to eject the drive</li> <li>Eject the drive as requested and hit Enter</li> </ol> <h2 id="5-postprocessing-and-backup-storage"> <a href="#5-postprocessing-and-backup-storage" class="anchor-heading" aria-labelledby="5-postprocessing-and-backup-storage"><svg viewBox="0 0 16 16" aria-hidden="true"><use xlink:href="#svg-link"></use></svg></a> 5. Postprocessing and Backup Storage </h2> <p>Once the intial copy to the staging area is complete and the drive ejected, a series of postprocesses will begin. You do not need to be present for this and can leave the service to complete without supervision.</p> <ol> <li>Existing checksums will be deleted</li> <li>Embedded BWF metadata will be rewritten to the RIFF INFO chunk</li> <li>New checksum files will be generated</li> <li>Access files will be generated and saved to the <strong>_MSO_audio</strong> directory</li> <li>The Tracking spreadsheet will be emailed to the Workflow Support Officer</li> <li>The files will be then be moved from <strong>_staging_area</strong> to <strong>_backup_storage</strong>, and saved to the Engineer’s named directory and a batch-number-date named directory created</li> </ol> </main> <hr> <footer> <p class="text-small text-grey-dk-100 mb-0"><p xmlns:cc="http://creativecommons.org/ns#" ><a href="http://creativecommons.org/licenses/by-nc/4.0/?ref=chooser-v1" target="_blank" rel="license noopener noreferrer" style="display:inline-block;">CC BY-NC 4.0<img style="height:22px!important;margin-left:3px;vertical-align:text-bottom;" src="https://mirrors.creativecommons.org/presskit/icons/cc.svg?ref=chooser-v1"><img style="height:22px!important;margin-left:3px;vertical-align:text-bottom;" src="https://mirrors.creativecommons.org/presskit/icons/by.svg?ref=chooser-v1"><img style="height:22px!important;margin-left:3px;vertical-align:text-bottom;" src="https://mirrors.creativecommons.org/presskit/icons/nc.svg?ref=chooser-v1"></a></p></p> <div class="d-flex mt-2"> <p class="text-small text-grey-dk-000 mb-0 mr-2"> Page last modified: <span class="d-inline-block">Mar 7 2024</span>. </p> </div> </footer> </div> </div> <div class="search-overlay"></div> </div> </body> </html>

diff --git a/docs/transfer_processes/backup_service.md b/docs/transfer_processes/backup_service.md
@@ -21,13 +21,15 @@ The backup service is written in Python and the code is accessible [here](/link)
 
 ## 1. Workflow
 
+Outline of the File Backup Service operations.
+
 <!-- [image] -->
 <img src="{{ site.baseurl }}/assets/images/system_settings/9_backupservice_workflow.png">
 
 
 ## 2. Requirements and Data Formatting
 
-The following data is required to start the backup service.
+The following data is required to run the backup service.
 
 * Audio files
 * MD5 Checksum files
@@ -42,7 +44,7 @@ All files need to be saved in a source directory named with the engineer's name 
 | | *.wav |
 | | *.md5 |
 | | EnigneerName_Date_BatchNo_TrackingSpreadsheet.xlsx |
-| | EnigneerName_Date_BatchNo_ExcelBatchUpload.xlsx |
+| | EnigneerName__Date_BatchNo_ExcelBatchUpload.xlsx |
 
 The Tracking and Batch SIP spreadsheets are required and all data listed within must match against the audio files in the directory.
 
@@ -82,12 +84,12 @@ To copy files from your drive to the backup storage
 
 ## 5. Postprocessing and Backup Storage
 
-Once the intial copy to the staging area is complete and the drive ejected, a series of postprocesses will begin.  Engineers do not need to be present for this and can leave the service to complete without supervision.
+Once the intial copy to the staging area is complete and the drive ejected, a series of postprocesses will begin.  You do not need to be present for this and can leave the service to complete without supervision.
 
 1. Existing checksums will be deleted
 2. Embedded BWF metadata will be rewritten to the RIFF INFO chunk
 3. New checksum files will be generated
-4. Access files will be generated and saved to the **_MSO_Audio** directory
+4. Access files will be generated and saved to the **_MSO_audio** directory
 5. The Tracking spreadsheet will be emailed to the Workflow Support Officer
 6. The files will be then be moved from **_staging_area** to **_backup_storage**,
 and saved to the Engineer's named directory and a batch-number-date named directory created
